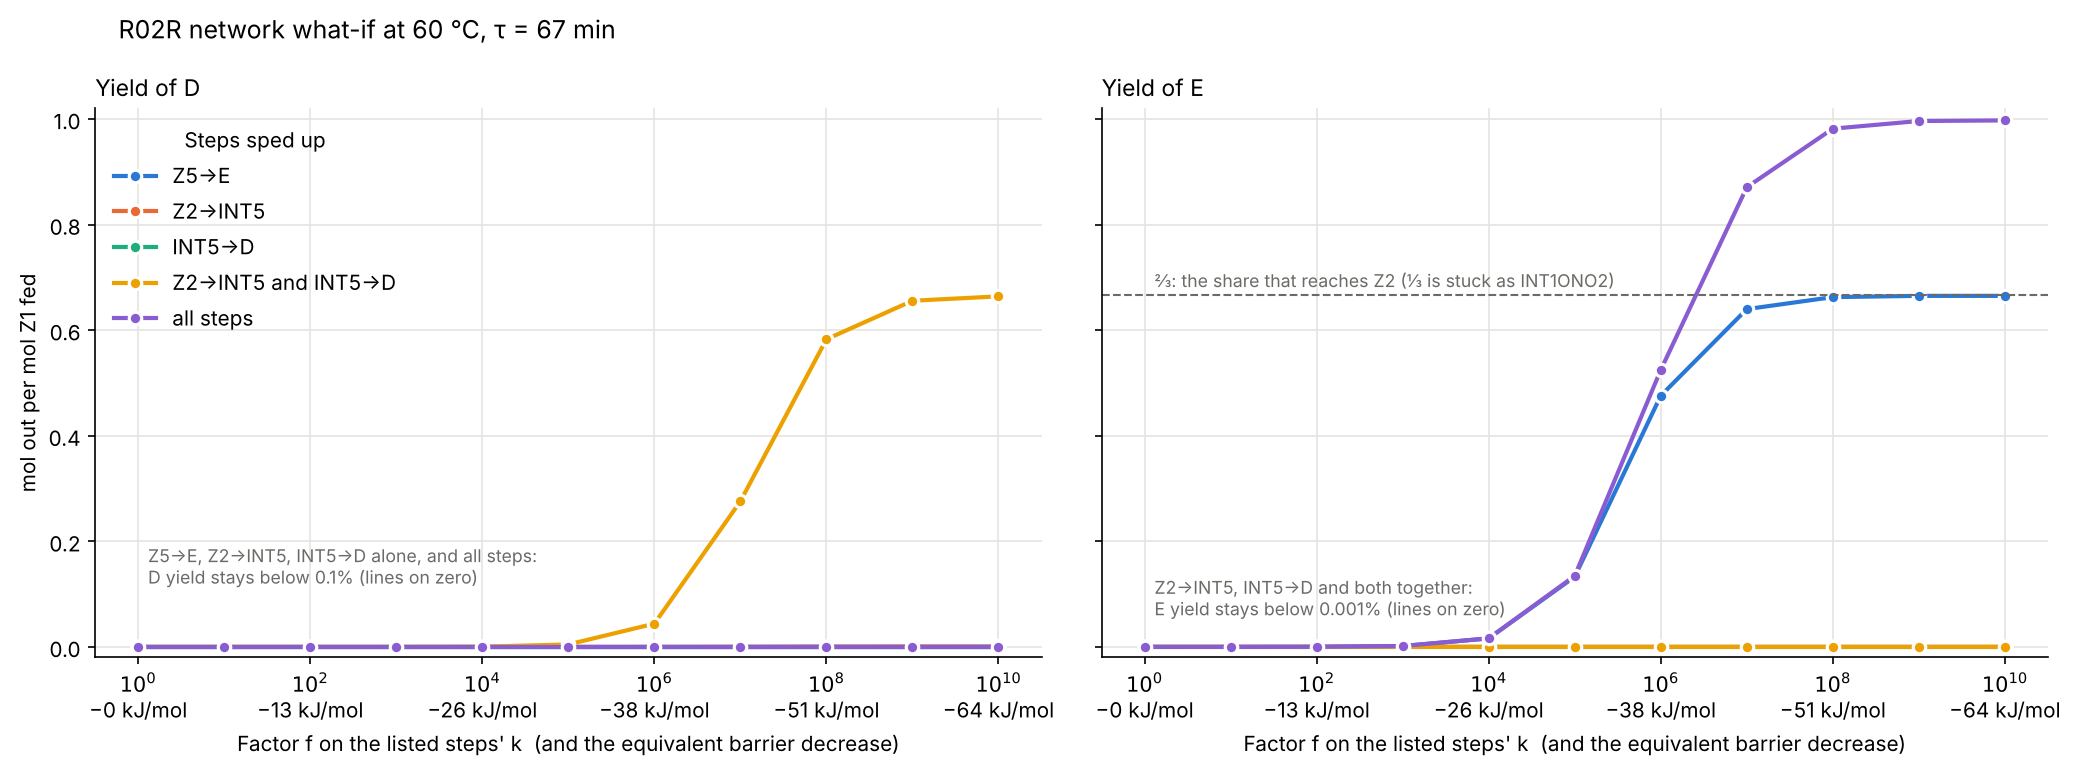
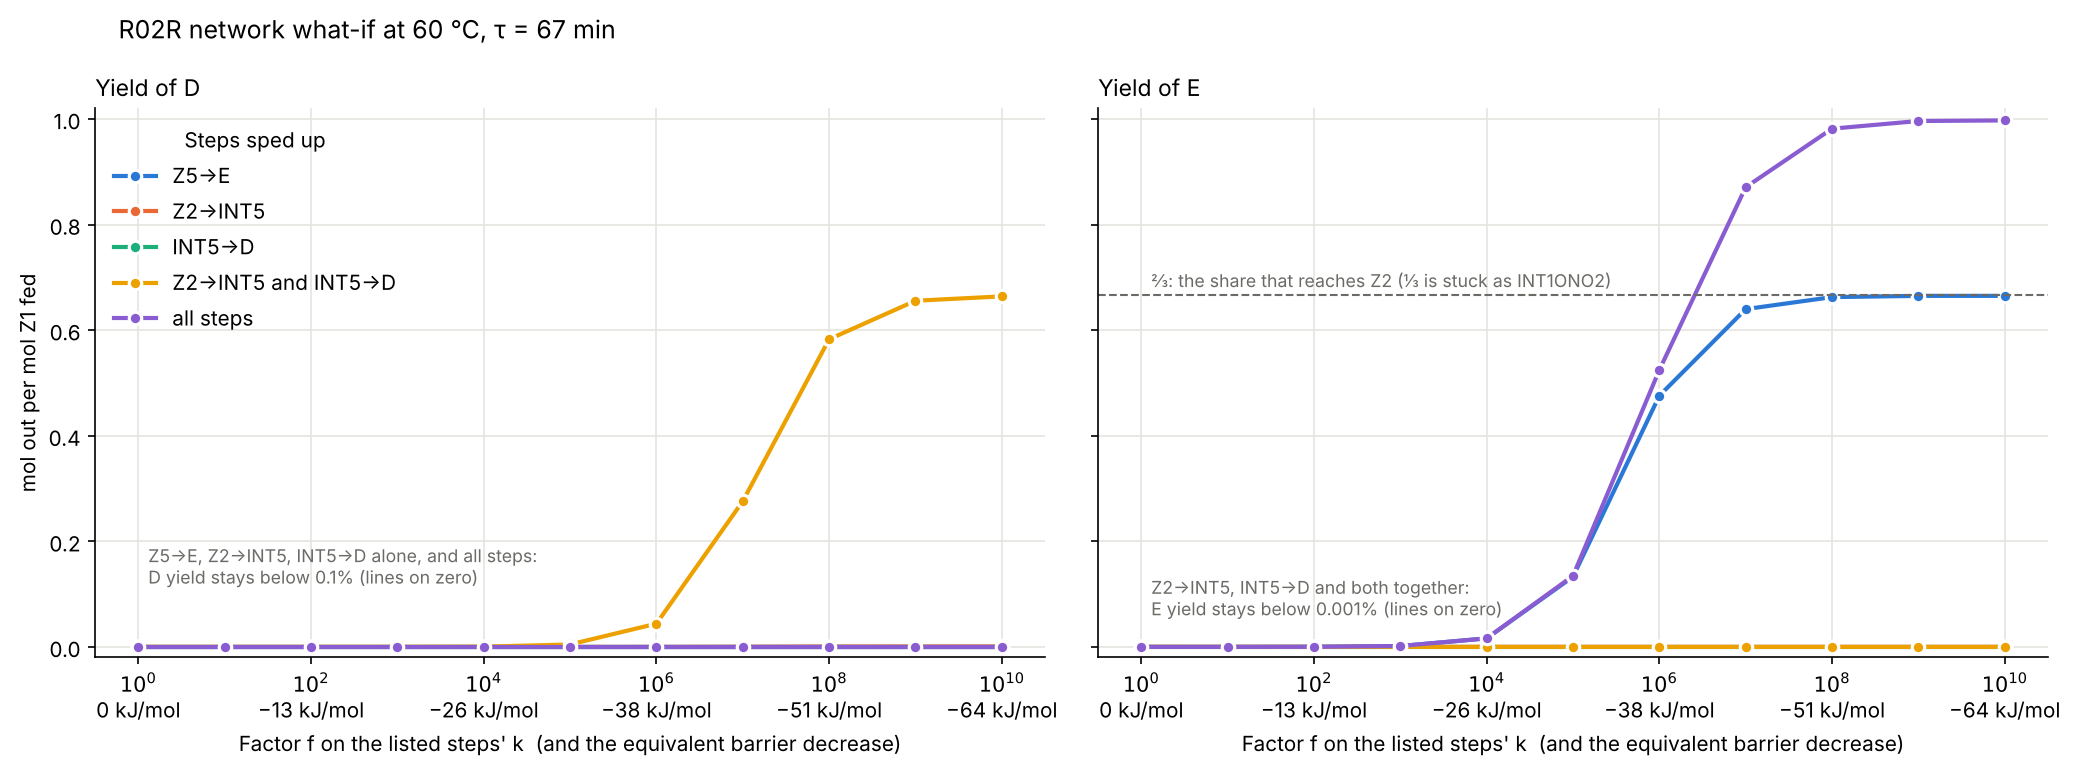
Fix what-if tick labels
Claude-Session: https://claude.ai/code/session_01K4fAYaknGs2j13owVbAtJi

diff --git a/Project work/R02R_network/R02R_network_rate_whatif.py b/Project work/R02R_network/R02R_network_rate_whatif.py
@@ -85,9 +85,10 @@ def plot(results: dict[str, np.ndarray]):
         ax.spines[["top", "right"]].set_visible(False)
         ticks = FACTORS[::2]
         ax.set_xticks(ticks)
-        ax.set_xticklabels([f"$10^{{{int(np.log10(f))}}}$\n"
-                            (f"−{rt_ln10 * np.log10(f):.0f} kJ/mol" if f > 1 else "0 kJ/mol")
-                            for f in ticks])
+        drops = [f"−{rt_ln10 * np.log10(f):.0f} kJ/mol" if f > 1
+                 else "0 kJ/mol" for f in ticks]
+        ax.set_xticklabels([f"$10^{{{int(np.log10(f))}}}$\n{drop}"
+                            for f, drop in zip(ticks, drops)])
         ax.minorticks_off()
     axes[0].set_ylabel("mol out per mol Z1 fed")
     axes[0].legend(title="Steps sped up", frameon=False, loc="upper left")
